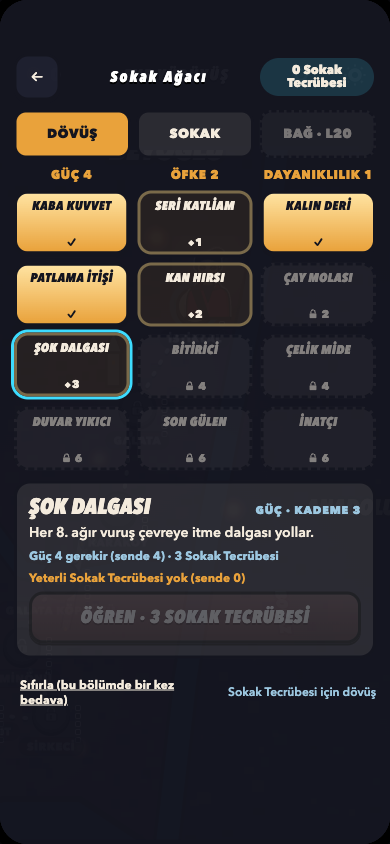
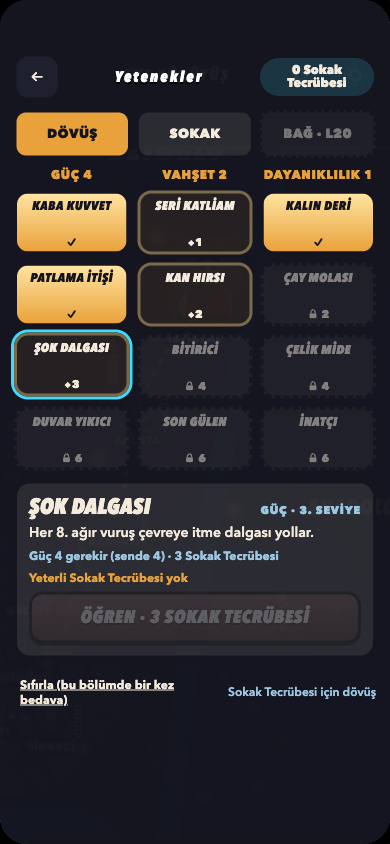
r1/t5: owner text round (Yetenekler tab, Vahset, shorter notes)
- Tab and screen title are Yetenekler in TR; Aggression is Vahset
- Tier label "{attr} · {n}. Seviye"; not-enough-Street-Cred line has no balance
- Karakter note uses the owner's sentence; "Gelisim cubugu" used consistently
- Tab strip fits five tabs; TR screenshots refreshed; packet updated

diff --git a/prototype/js/meta/strings-meta2.js b/prototype/js/meta/strings-meta2.js
@@ -1,12 +1,12 @@
 // Strings for v0.5 meta: attributes (stats), arsenal, daily, streak, achievements, collection, welcome-back, toasts.
 // TR primary, EN second. Keys follow the spec; {placeholders} are filled by P.t(key, vars).
 Object.assign(P.STR.tr, {
-  'stat.str': 'Güç', 'stat.pace': 'Çeviklik', 'stat.agg': 'Öfke', 'stat.int': 'Zekâ', 'stat.cha': 'Karizma', 'stat.grit': 'Dayanıklılık',
-  'attr.lvlup': 'SEVİYE TAMAM', 'attr.sub': 'Sokak tecrübesi kazandın. Eğitim çubukları doldu.',
+  'stat.str': 'Güç', 'stat.pace': 'Çeviklik', 'stat.agg': 'Vahşet', 'stat.int': 'Zekâ', 'stat.cha': 'Karizma', 'stat.grit': 'Dayanıklılık',
+  'attr.lvlup': 'SEVİYE TAMAM', 'attr.sub': 'Sokak tecrübesi kazandın. Gelişim çubukları doldu.',
   'attr.allocHead': 'Puanları dağıt', 'attr.later': 'Sonra', 'attr.confirm': 'Onayla', 'attr.title': 'KARAKTER',
-  'attr.pool': 'Hazır: {r} · Sokak Tecrübesi: {sc} · Kalan: {left}', 'attr.none': 'Harcanacak puan yok. Eğitim çubuklarını doldurmaya devam et.',
+  'attr.pool': 'Hazır: {r} · Sokak Tecrübesi: {sc} · Kalan: {left}', 'attr.none': 'Harcanacak puan yok. Gelişim çubuklarını doldurmaya devam et.',
   'attr.readyTag': 'hazır', 'attr.minus': 'Azalt', 'attr.plus': 'Artır', 'attr.pop': '+1 {s}!', 'attr.train': 'eğitim %{a}',
-  'attr.panelNote': 'Eğitim çubukları oynayış tarzından dolar. Hazır puanlar yalnızca kendi özelliğine gider. Sokak Tecrübesi ile Ağaç sekmesinde yetenek öğrenirsin.',
+  'attr.panelNote': 'Gelişim çubuğu dolduğunda bir özelliği buradan geliştirebilirsin. Sokak Tecrübesi ile Yetenekler sekmesinden yetenek öğrenirsin.',
   'fx.mightPct': 'Hasar {v}', 'fx.movePct': 'Hız {v}', 'fx.cooldownPct': 'Silah hızı {v}', 'fx.critPct': 'Kritik şansı {v} puan',
   'fx.pickupPct': 'Toplama alanı {v}', 'fx.dashCdPct': 'Depar hızı {v}', 'fx.knockbackPct': 'Geri itme {v}',
   'fx.hackSpeedPct': 'Hack hızı {v}', 'fx.civHelpPct': 'Sivil yardımı {v}', 'fx.coinPct': 'Jeton {v}', 'fx.luckPct': 'Şans {v}',
@@ -61,7 +61,7 @@ Object.assign(P.STR.en, {
   'attr.allocHead': 'Spend your points', 'attr.later': 'Later', 'attr.confirm': 'Confirm', 'attr.title': 'CHARACTER',
   'attr.pool': 'Ready: {r} · Street Cred: {sc} · Left: {left}', 'attr.none': 'No points to spend. Keep filling the training bars.',
   'attr.readyTag': 'ready', 'attr.minus': 'Decrease', 'attr.plus': 'Increase', 'attr.pop': '+1 {s}!', 'attr.train': 'training {a}%',
-  'attr.panelNote': 'Training bars fill from how you play. Ready points only go to their own attribute. Spend Street Cred on perks in the Tree tab.',
+  'attr.panelNote': 'When a training bar fills, you can raise that attribute from here. Spend Street Cred to learn perks in the Tree tab.',
   'fx.mightPct': 'Damage {v}', 'fx.movePct': 'Speed {v}', 'fx.cooldownPct': 'Weapon speed {v}', 'fx.critPct': 'Crit chance {v} pts',
   'fx.pickupPct': 'Pickup radius {v}', 'fx.dashCdPct': 'Dash speed {v}', 'fx.knockbackPct': 'Knockback {v}',
   'fx.hackSpeedPct': 'Hack speed {v}', 'fx.civHelpPct': 'Civilian help {v}', 'fx.coinPct': 'Coins {v}', 'fx.luckPct': 'Luck {v}',

diff --git a/prototype/js/meta/strings-tree.js b/prototype/js/meta/strings-tree.js
@@ -50,7 +50,7 @@ Object.assign(P.STR.tr, {
   "tree.grit.3.desc": "Simit 5 can daha fazla iyileştirir.",
   "tree.grit.4.name": "İnatçı",
   "tree.grit.4.desc": "Canın %20 ve altındayken yiyecekler 5m'den sana uçar.",
-  "tree.title": "Sokak Ağacı",
+  "tree.title": "Yetenekler",
   "tree.page.fight": "Dövüş",
   "tree.page.street": "Sokak",
   "tree.page.bond": "Bağ · L20",
@@ -61,9 +61,9 @@ Object.assign(P.STR.tr, {
   "tree.respec": "Sıfırla (bu bölümde bir kez bedava)",
   "tree.respecUsed": "Bu bölümdeki sıfırlama hakkı kullanıldı",
   "tree.hint": "Sokak Tecrübesi için dövüş",
-  "tab.tree": "Ağaç",
-  "tree.tier": "{attr} · kademe {n}",
-  "tree.short": "Yeterli Sokak Tecrübesi yok (sende {sc})",
+  "tab.tree": "Yetenekler",
+  "tree.tier": "{attr} · {n}. Seviye",
+  "tree.short": "Yeterli Sokak Tecrübesi yok",
   "tree.respecConfirm": "Sıfırlansın mı? {n} Sokak Tecrübesi geri gelir. Onaylamak için tekrar dokun.",
   "tree.bond.locked": "Kaan 20. seviyede katılır. Yetenekleri birlikte oynayarak kazanılır, satın alınmaz.",
   "tree.pick": "Ne işe yaradığını görmek için bir yeteneğe dokun."
@@ -130,7 +130,7 @@ Object.assign(P.STR.en, {
   "tree.hint": "Earn Street Cred by fighting",
   "tab.tree": "Tree",
   "tree.tier": "{attr} · tier {n}",
-  "tree.short": "Not enough Street Cred (you have {sc})",
+  "tree.short": "Not enough Street Cred",
   "tree.respecConfirm": "Respec? Refunds {n} Street Cred. Tap again to confirm.",
   "tree.bond.locked": "Kaan joins at level 20. His perks are earned by playing together, never bought.",
   "tree.pick": "Tap a perk to see what it does."

diff --git a/prototype/css/meta.css b/prototype/css/meta.css
@@ -240,9 +240,9 @@
 #phone.reduce-motion .meta-root *, #phone.reduce-motion .meta-root *::before, #phone.reduce-motion .meta-root *::after { animation-duration: .01ms !important; animation-iteration-count: 1 !important; transition-duration: .01ms !important; }
 
 /* ---- v0.5 (workstream C): tabs, attributes, arsenal, hub, welcome ---- */
-.meta-tabs { position: absolute; left: 12px; right: 12px; top: 104px; z-index: 6; display: flex; gap: 6px; }
+.meta-tabs { position: absolute; left: 12px; right: 12px; top: 104px; z-index: 6; display: flex; gap: 4px; }
 .meta-tabs.is-hidden { display: none; }
-.meta-tab { flex: 1; min-width: 0; min-height: 32px; padding: 0 2px; border-radius: 10px; border: 2px solid var(--m-ink); background: rgba(31,33,48,.92);
+.meta-tab { flex: 1 1 auto; text-align: center; min-height: 32px; padding: 0 2px; border-radius: 10px; border: 2px solid var(--m-ink); background: rgba(31,33,48,.92);
   color: #F4EBDD; font: 800 10px/1 var(--m-body); letter-spacing: .2px; text-transform: uppercase; }
 .meta-tab.is-on, .meta-tab:active { background: var(--m-gold); color: var(--m-ink); }
 .meta-attr, .meta-tree, .meta-arsenal, .meta-hub { position: absolute; inset: 0; z-index: 35; background: rgba(20,21,31,.97);

diff --git a/reviews/REVIEW-R1.md b/reviews/REVIEW-R1.md
@@ -605,7 +605,7 @@ Owner answers used: the perk text list is approved (5 rows rewritten by the owne
 | Respec | The free respec burns once per chapter, so it takes two taps: the first turns the link into "Sıfırlansın mı? 5 Sokak Tecrübesi geri gelir. Onaylamak için tekrar dokun." (any other tap cancels). Used: the link reads "Bu bölümdeki sıfırlama hakkı kullanıldı" and is disabled. Nothing learned: disabled, and it does not burn the free respec |
 | Persistence | `P.Meta.treeState / treeLearn / treeRespec` in `meta-data.js`: Street Cred and the tree are written together in one save |
 | Strings | `js/meta/strings-tree.js`: the 24 perk names and descriptions copied verbatim from the approved list, the 11 screen keys, and 6 new keys (below) |
-| Entry point | A fifth tab, **Ağaç / Tree**, in the map's tab strip (after Karakter). Tab font 11 to 10 px so five labels fit inside the margins |
+| Entry point | A fifth tab, **Yetenekler / Tree**, in the map's tab strip (after Karakter). Tab font 11 to 10 px, gap 4 px and the tabs size to their label so five labels fit inside the margins |
 | Karakter note | `attr.panelNote` said Street Cred "goes anywhere", which is no longer true. It now points to the Tree tab |
 | Tests | `test-tree.js` (165 checks, was 67): learn persists and costs Street Cred, a rank-locked or unknown perk is refused, respec refunds, a second respec in the chapter is refused, an empty respec does not burn it, the run loadout carries the learned perks, every perk and screen key has EN and TR text and a name that fits a node. `test-meta` (122) and `test-dialogue` pass |
 | Other | `Depar` rename (committed earlier); `tools/lib-load.js` skips the new view file like the other panels; wireframe node names updated to the final perk names, and Shockwave is drawn locked (Strength 3 is under its gate of 4; the old wireframe drew it available) |
@@ -622,13 +622,13 @@ Owner answers used: the perk text list is approved (5 rows rewritten by the owne
 These are my drafts. TR is yours to rewrite.
 | Key | EN | TR |
 |---|---|---|
-| tab.tree | Tree | Ağaç |
-| tree.tier | {attr} · tier {n} | {attr} · kademe {n} |
-| tree.short | Not enough Street Cred (you have {sc}) | Yeterli Sokak Tecrübesi yok (sende {sc}) |
+| tab.tree | Tree | Yetenekler (owner, 2026-11-12; was Ağaç) |
+| tree.tier | {attr} · tier {n} | {attr} · {n}. Seviye (owner, 2026-11-12) |
+| tree.short | Not enough Street Cred | Yeterli Sokak Tecrübesi yok (owner: no balance in it) |
 | tree.respecConfirm | Respec? Refunds {n} Street Cred. Tap again to confirm. | Sıfırlansın mı? {n} Sokak Tecrübesi geri gelir. Onaylamak için tekrar dokun. |
 | tree.bond.locked (screen-reader label of the disabled Bond tab) | Kaan joins at level 20. His perks are earned by playing together, never bought. | Kaan 20. seviyede katılır. Yetenekleri birlikte oynayarak kazanılır, satın alınmaz. |
 | tree.pick (unused for now) | Tap a perk to see what it does. | Ne işe yaradığını görmek için bir yeteneğe dokun. |
-| attr.panelNote (changed) | Training bars fill from how you play. Ready points only go to their own attribute. Spend Street Cred on perks in the Tree tab. | Eğitim çubukları oynayış tarzından dolar. Hazır puanlar yalnızca kendi özelliğine gider. Sokak Tecrübesi ile Ağaç sekmesinde yetenek öğrenirsin. |
+| attr.panelNote (changed) | When a training bar fills, you can raise that attribute from here. Spend Street Cred to learn perks in the Tree tab. | Gelişim çubuğu dolduğunda bir özelliği buradan geliştirebilirsin. (owner) Sokak Tecrübesi ile Yetenekler sekmesinden yetenek öğrenirsin. (my wording) |
 
 ## Deviations
 - **Entry point:** the wireframe has a bottom "Squad" tab with a Tree | Gear segment. The prototype has neither, so the tree is a fifth tab in the map's existing tab strip.

diff --git a/docs/attributes.md b/docs/attributes.md
@@ -23,7 +23,7 @@ Attributes are **not** the main source of power. Mods, mastery, gear and hero le
 |---|---|---|---|---|
 | 1 | **Strength** / Güç | STR | Heavy hits, melee, knockback | 6 |
 | 2 | **Pace** / Çeviklik | PACE | Moving, dashing, dodging | 6 |
-| 3 | **Aggression** / Öfke | AGG | Crits, kill streaks, frenzy | 6 |
+| 3 | **Aggression** / Vahşet | AGG | Crits, kill streaks, frenzy | 6 |
 | 4 | **Intelligence** / Zekâ | INT | Hacking tasks (§4). Hacks are the only way to use it. | 6 |
 | 5 | **Charm** / Karizma | CHA | Rescues, civilians, vendors (§5) | 6 |
 | 6 | **Grit** / Dayanıklılık | GRIT | HP, regen, taking hits and surviving | 6 |
@@ -36,7 +36,7 @@ Ranks run **0–10**. The chapter cap limits the max rank:
 | 2 (L101–200) | 8 | Cap rises with chapter progress (business-plan §5.1). |
 | 3 (L201–300) | 10 | Full range. |
 
-Names: TR names are the owner's words. EN names follow the owner's brief. "Aggression" is the EN for Öfke.
+Names: TR names are the owner's words. EN names follow the owner's brief. "Aggression" is the EN for Vahşet (owner, 2026-11-12; was Öfke, which stays the boss rage shout).
 
 ---
 

diff --git a/reviews/PERK-TEXT-R1-T5.md b/reviews/PERK-TEXT-R1-T5.md
@@ -39,7 +39,7 @@ These are small UI strings the Tree screen needs. Drafts, same rules.
 
 | Key | EN | TR |
 |---|---|---|
-| tree.title | Street Tree | Sokak Ağacı |
+| tree.title | Street Tree | Yetenekler (owner, 2026-11-12) |
 | tree.page.fight | Fight | Dövüş |
 | tree.page.street | Street | Sokak |
 | tree.page.bond | Bond · L20 | Bağ · L20 |
